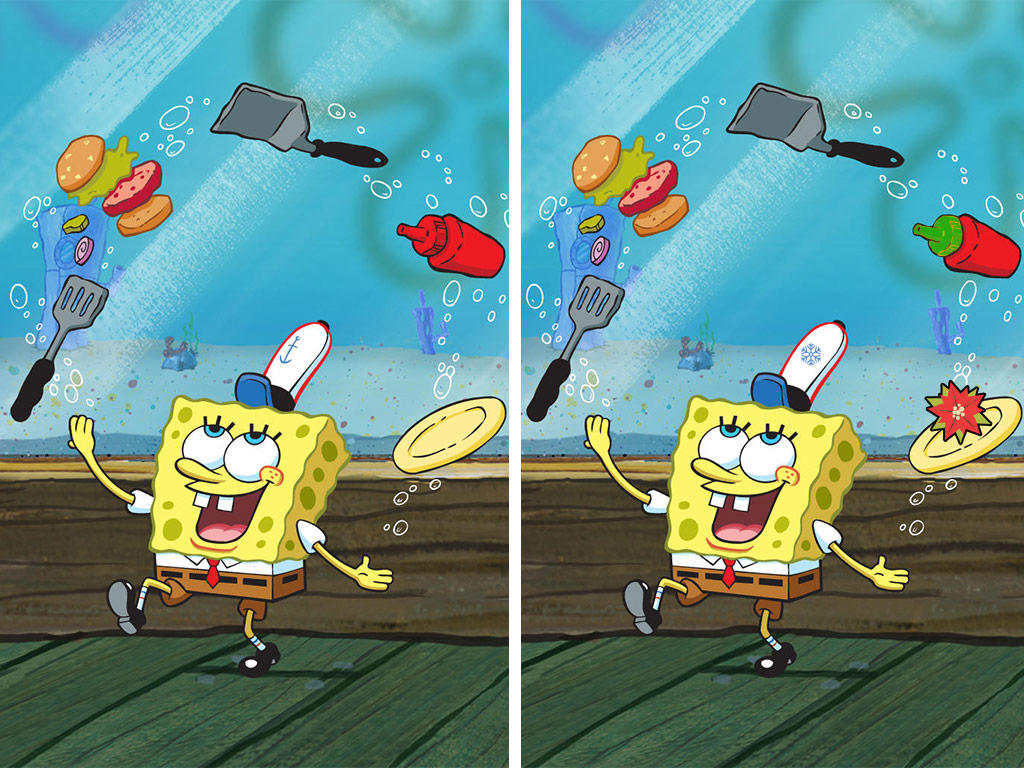
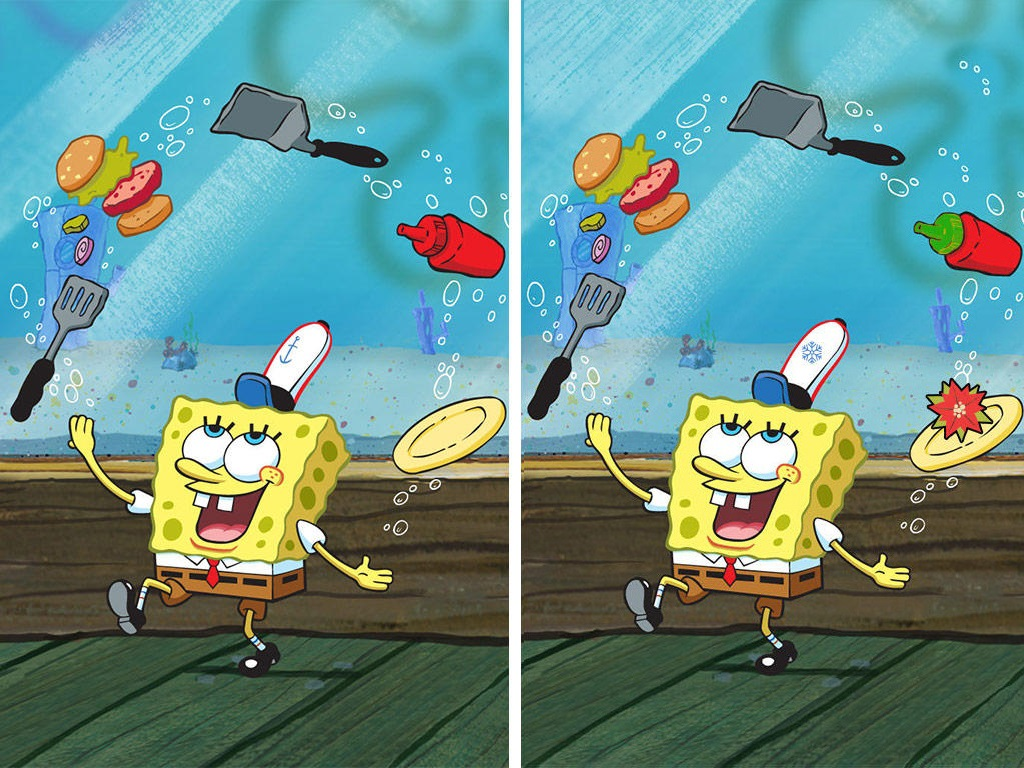
Changed 2 photos to single canvas

diff --git a/puzzle.js b/puzzle.js
@@ -6,9 +6,9 @@ canvas.addEventListener('click', doSomething);
 function draw(context) {
 	var img = new Image();
 	img.onload = function() {
-		context.drawImage(img, 0, 0, 300, 300);
+		context.drawImage(img, 0, 0, 600, 300);
 	}
-	img.src = "spongebob1.jpg";
+	img.src = "spongebob.jpg";
 }
 
 function getMouseXY(e) {
@@ -44,21 +44,21 @@ function doSomething(evt) {
 		console.log("click: " + pos.x + ", " + pos.y + "On the plate")
 		spongebob1 = true;
 		foundADifference();
-        drawCircle(260,158,25,'white');
+        drawCircle(260,158,560,158,25,'white');
 
 	}
 	if (pos.x >= 230 && pos.y >= 70 && pos.x <= 260 && pos.y <= 100 && spongebob2 == false) {
 		console.log("click: " + pos.x + ", " + pos.y + "On the ketchup")
 		spongebob2 = true;
 		foundADifference();
-        drawCircle(245,90,20,'green');
+        drawCircle(245,90,545,90,20,'green');
 
 	}
     	if (pos.x >= 160 && pos.y >= 120 && pos.x <= 190 && pos.y <= 150 && spongebob3 == false) {
 		console.log("click: " + pos.x + ", " + pos.y + "On the hat")
 		spongebob3 = true;
 		foundADifference();
-        drawCircle(174,135,15,'black');
+        drawCircle(174,135,474,135,15,'black');
 
 
 	}
@@ -66,14 +66,14 @@ function doSomething(evt) {
 		console.log("click: " + pos.x + ", " + pos.y + "On the bubble")
 		spongebob4 = true;
 		foundADifference();
-        drawCircle(271,24,20,'blue');
+        drawCircle(271,24,571,24,20,'blue');
 
 	}
     	if (pos.x >= 0 && pos.y >= 0 && pos.x <= 30 && pos.y <= 30 && spongebob5 == false) {
 		console.log("click: " + pos.x + ", " + pos.y + "On the window")
 		spongebob5 = true;
 		foundADifference();
-        drawCircle(20,14,40,'yellow');
+        drawCircle(20,14,325,14,20,'yellow');
 
 	}
     if(toFind==0){
@@ -97,9 +97,19 @@ function foundADifference() {
 	var element2 = document.getElementById('found');
 	element2.textContent = found;
 }
-function drawCircle(x,y,radius,style) {
+function drawCircle(x,y,x2,y2,radius,style) {
       context.beginPath();
+    context.strokeStyle = style;
+              context.lineWidth = 5;
+
       context.arc(x, y, radius, 0, Math.PI*2,false);
+          context.stroke();
+          context.beginPath();
+
+        context.arc(x2, y2, radius, 0, Math.PI*2,false);
+          context.stroke();
+
+
       context.lineWidth = 5;
 
       // line color

diff --git a/games.html b/games.html
@@ -37,9 +37,8 @@
             </ul>
         </nav>
  <body>
-    <canvas id="canvas" width="300" height="300"></canvas>
+    <canvas id="canvas" width="600" height="300"></canvas>
     <script src="puzzle.js"></script>
-     <img src="spongebob2.jpg" id="spongebob2" class="puzzleImg2">
 <p>Differences to find: </p>
 <p id="toFind"> 5 </p>
 <p> Differences found </p>
